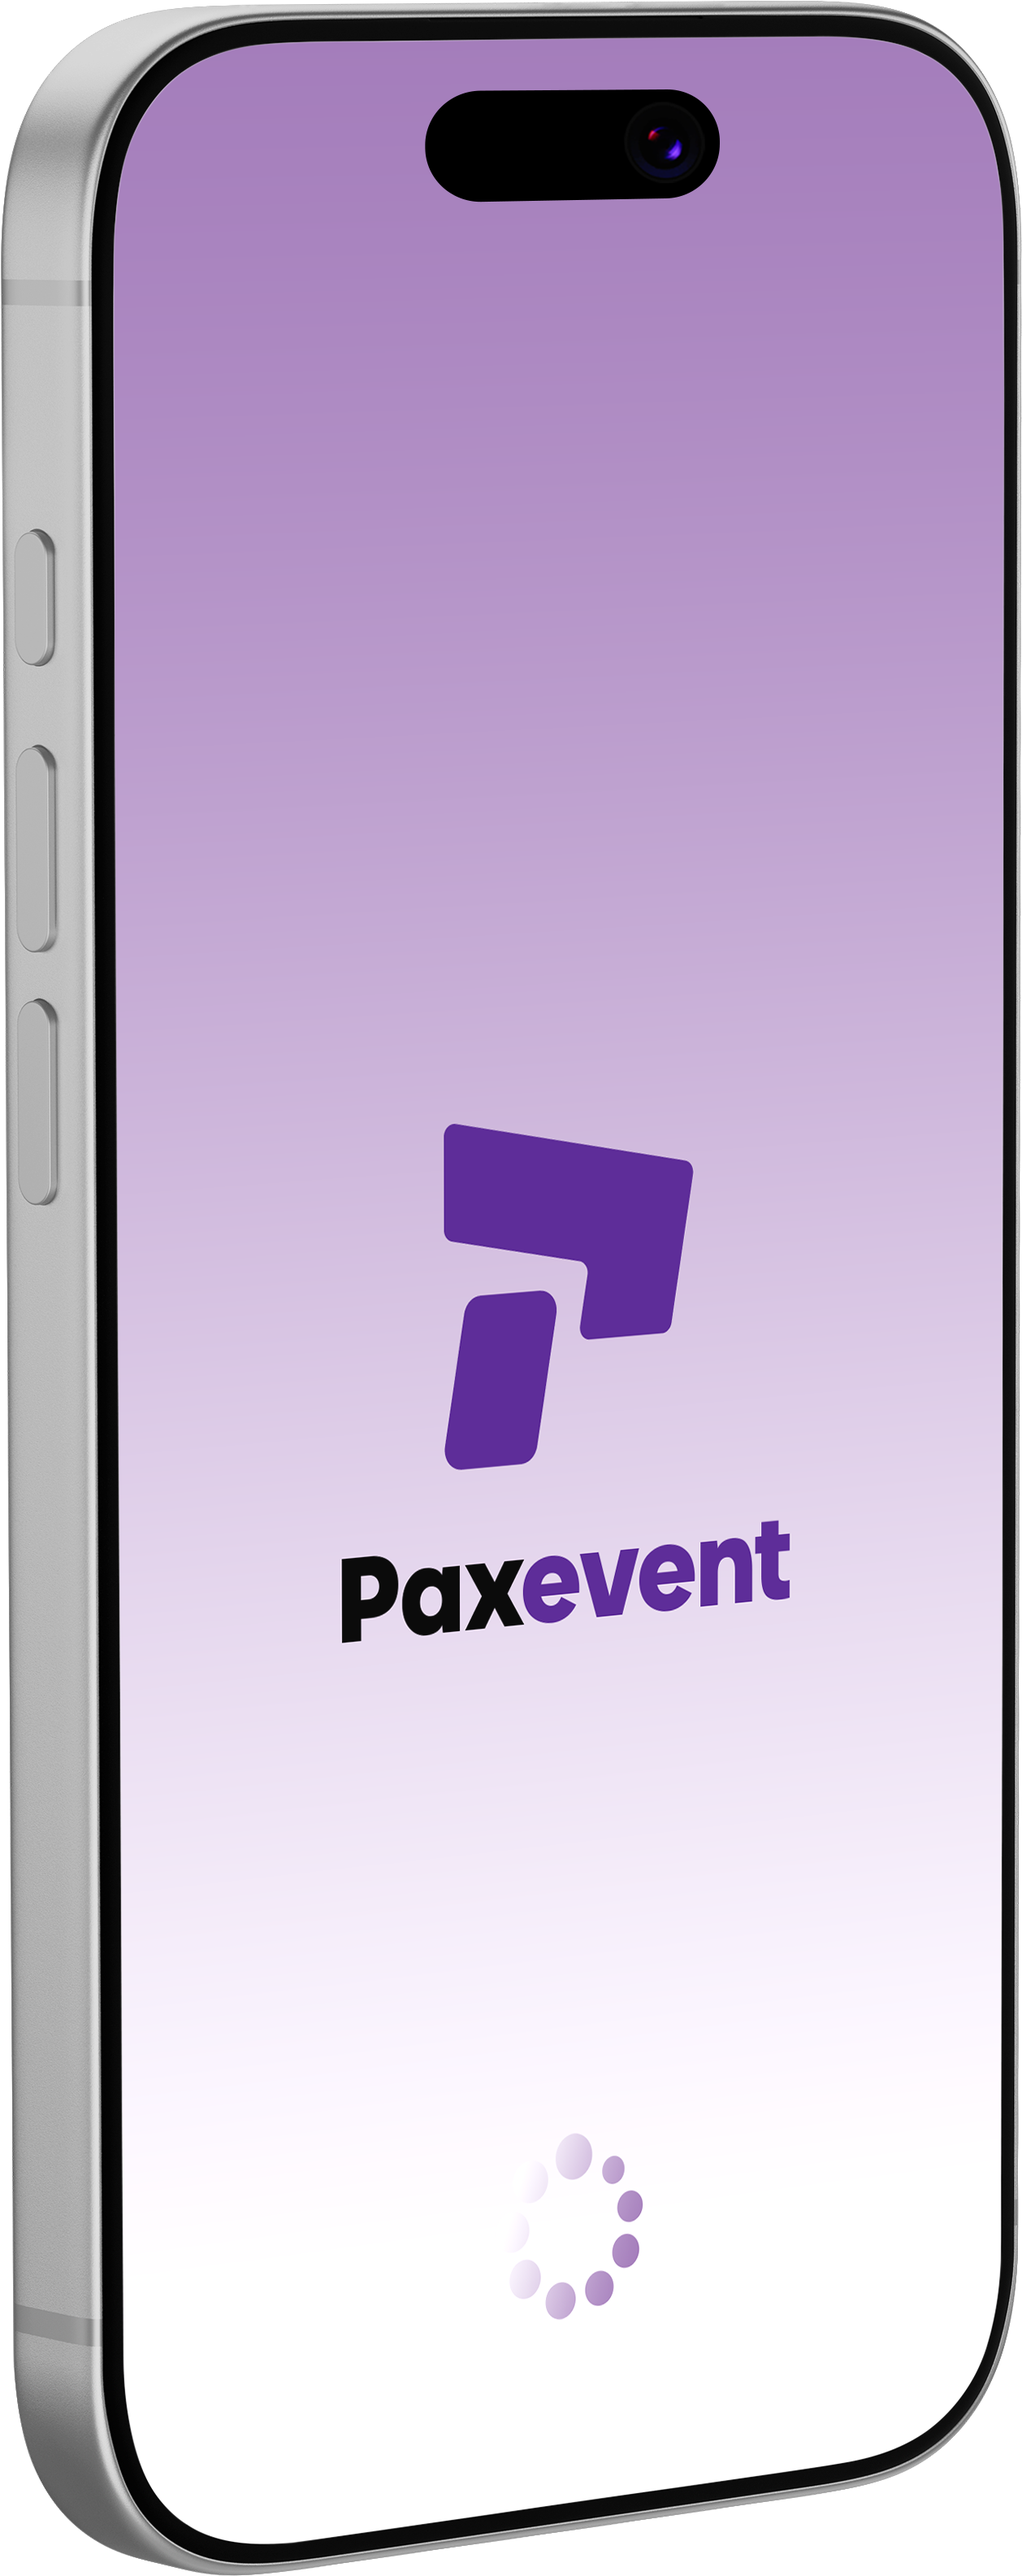
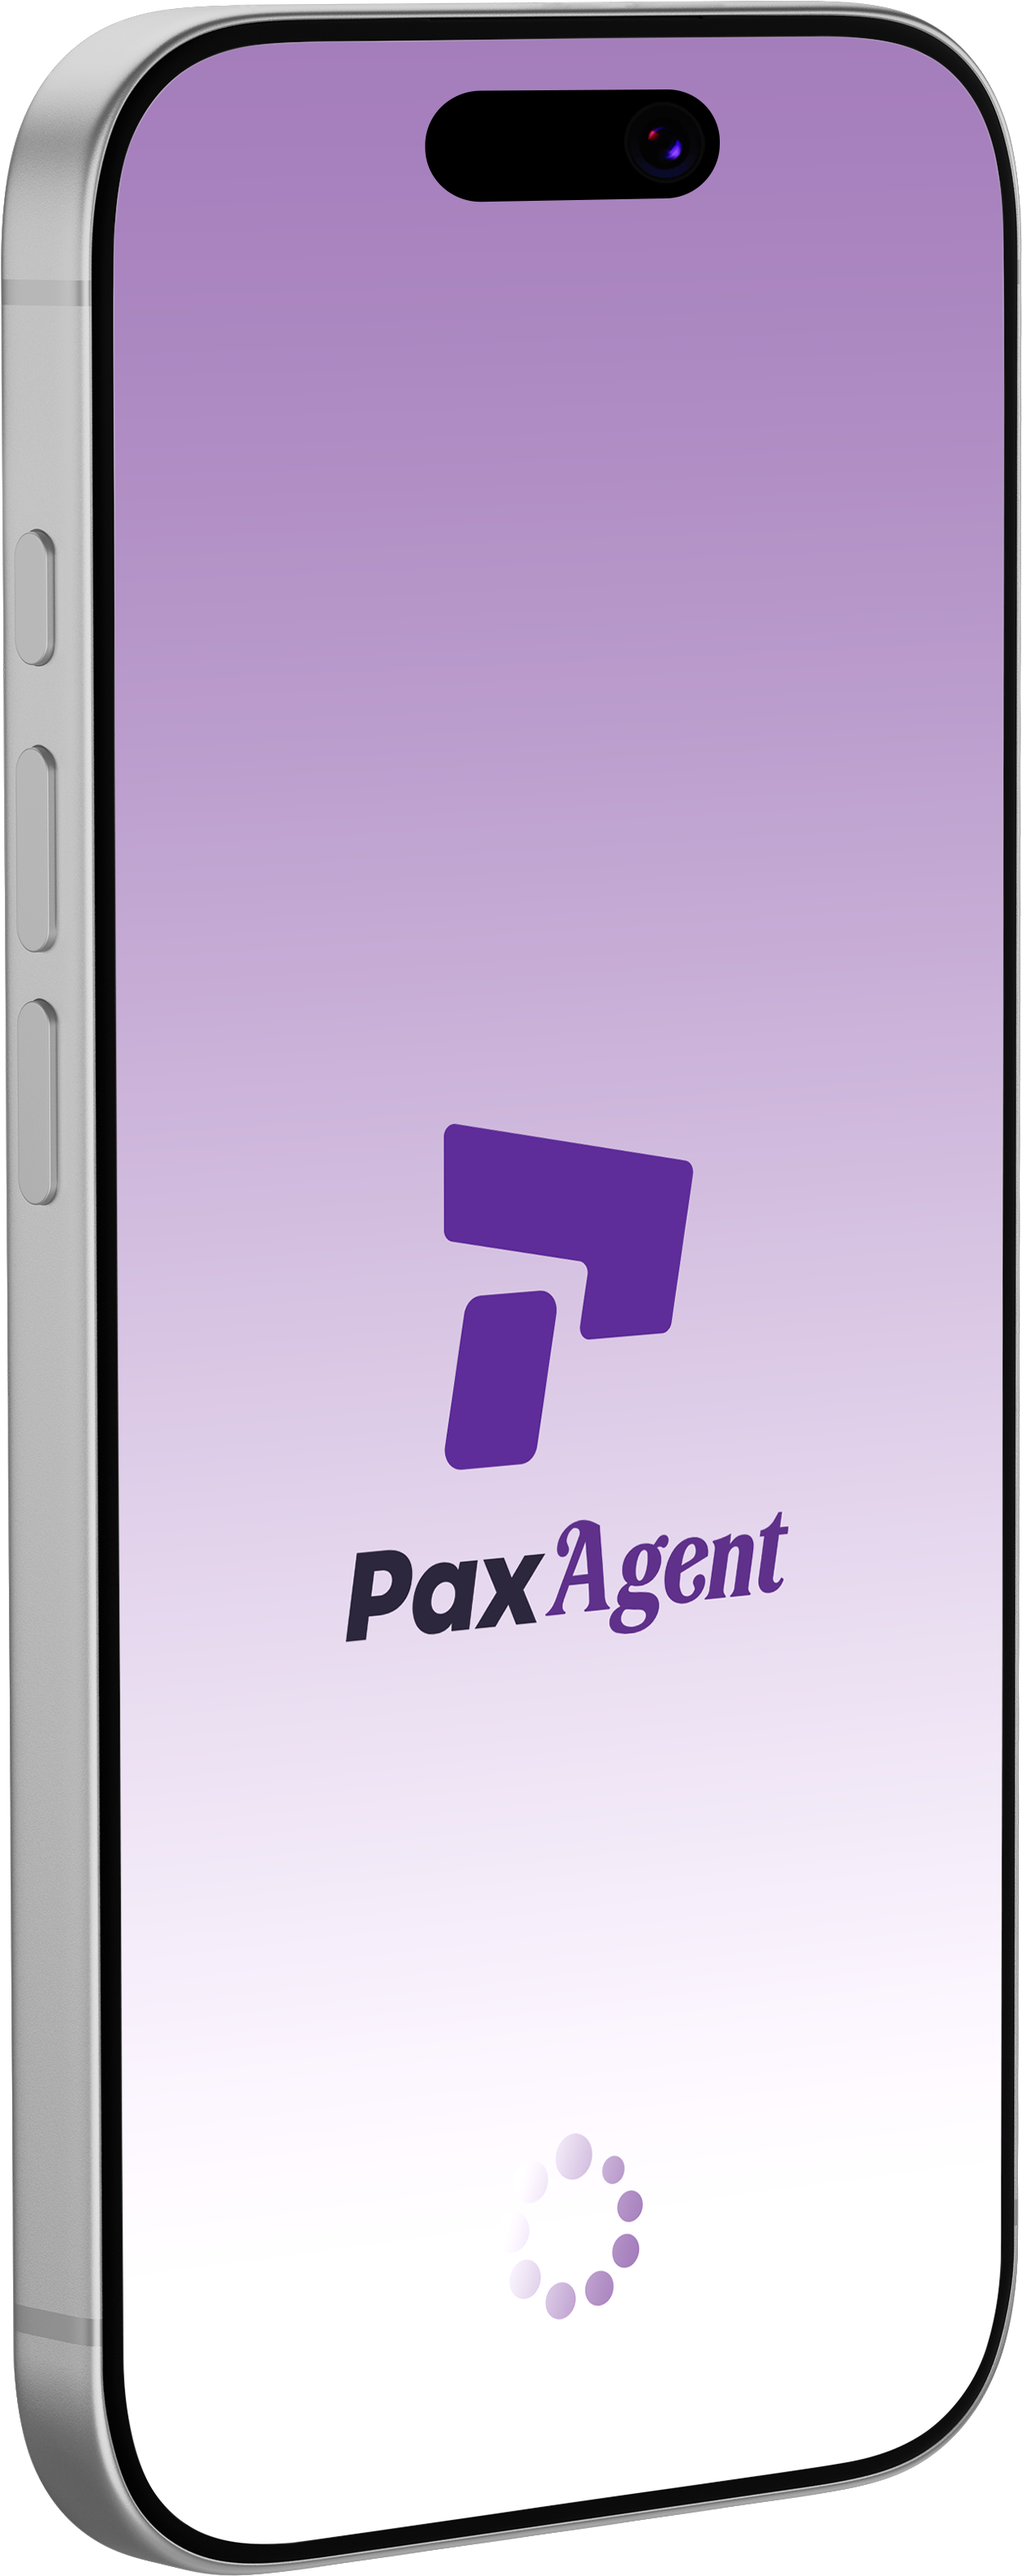
feat(public): barre d'achat mobile visible dès l'ouverture + nouvel écran PaxAgent
- Détail événement (mobile) : barre « À partir de » + bouton selon le type d'événement
  (Acheter, S'inscrire…), qui mène aux tarifs ; reprend le panier dès qu'un billet est choisi
- Section PaxAgent : nouvelle image du second écran (WebP régénéré), images inutilisées retirées

Changed region(s): [[0.31, 0.5938, 0.775, 0.6562]]

diff --git a/resources/views/evenement-public/show.blade.php b/resources/views/evenement-public/show.blade.php
@@ -303,7 +303,8 @@
                         </form>
 
                         {{-- Barre du panier, fixée en bas de l'écran sur téléphone --}}
-                        <div class="achat-barre" id="barrePanier">
+                        <div class="achat-barre" id="barrePanier"
+                             data-libelle-depart="{{ $evenement->gratuit ? $evenement->getTextes()['participer_gratuit'] : $evenement->getTextes()['acheter'] }}">
                             <div>
                                 <div class="achat-barre-n" data-nombre>Aucun billet choisi</div>
                                 <div class="achat-barre-t" data-total>0 FCFA</div>
@@ -526,6 +527,7 @@
 }
 .achat-barre-n{font-size:.75rem;color:#6b6474}
 .achat-barre-t{font-size:1.1rem;font-weight:800;color:#211C31}
+.achat-barre.est-vide #btnContinuerBarre{flex:1;max-width:60%;justify-content:center;padding:.75rem 1rem;font-size:1rem}
 </style>
 </div>
 
@@ -1275,11 +1277,17 @@ document.addEventListener('DOMContentLoaded', function () {
         document.querySelectorAll('[data-nombre]').forEach((el) => { el.textContent = texteNombre; });
         document.querySelectorAll('[data-total]').forEach((el) => { el.textContent = nombre === 0 ? '0 FCFA' : fmt(total); });
 
+        // Barre mobile : avant tout choix, elle affiche le prix de départ et invite à prendre un billet
+        if (nombre === 0) {
+            barre.querySelector('[data-nombre]').textContent = 'À partir de';
+            barre.querySelector('[data-total]').textContent = prixDepart > 0 ? fmt(prixDepart) : 'Gratuit';
+        }
+
         libelle.textContent = nombre > 0 && total <= 0 ? 'Réserver gratuitement' : 'Payer avec FedaPay';
 
-        const visible = nombre > 0;
-        barre.classList.toggle('is-visible', visible);
-        document.body.classList.toggle('achat-barre-ouverte', visible);
+        barre.classList.add('is-visible');
+        document.body.classList.add('achat-barre-ouverte');
+        barre.classList.toggle('est-vide', nombre === 0);
         majBoutonBarre();
     }
 
@@ -1293,7 +1301,16 @@ document.addEventListener('DOMContentLoaded', function () {
         .filter((c) => !c.disabled && c.type !== 'hidden');
     const premierChampManquant = () => champsRequis().find((c) => !c.checkValidity());
 
+    // Prix le plus bas parmi les tarifs encore disponibles
+    const disponibles = lignes.filter((l) => parseInt(l.dataset.max, 10) > 0);
+    const prixDepart = Math.min(...(disponibles.length ? disponibles : lignes).map((l) => parseFloat(l.dataset.prix) || 0));
+
     function majBoutonBarre() {
+        if (barre.classList.contains('est-vide')) {
+            libelleBarre.textContent = barre.dataset.libelleDepart || 'Acheter';
+            iconeBarre.className = 'bi bi-ticket-perforated ms-1';
+            return;
+        }
         const pret = !premierChampManquant();
         libelleBarre.textContent = pret ? libelle.textContent : 'Continuer';
         iconeBarre.className = pret ? 'bi bi-arrow-right ms-1' : 'bi bi-arrow-down ms-1';
@@ -1311,6 +1328,11 @@ document.addEventListener('DOMContentLoaded', function () {
     });
 
     btnBarre.addEventListener('click', function () {
+        // Aucun billet choisi : on descend jusqu'aux tarifs
+        if (barre.classList.contains('est-vide')) {
+            (disponibles[0] || lignes[0] || form).scrollIntoView({ behavior: 'smooth', block: 'center' });
+            return;
+        }
         const manquant = premierChampManquant();
         if (manquant) {
             manquant.scrollIntoView({ behavior: 'smooth', block: 'center' });

diff --git a/resources/views/site/accueil.blade.php b/resources/views/site/accueil.blade.php
@@ -831,7 +831,7 @@
             <div class="app-visuel app-reveal">
                 <div class="app-scene" role="img" aria-label="Deux écrans de l'application mobile PaxAgent">
                     <img class="app-cercle" src="{{ asset('images/paxagent-cercle.webp') }}" alt="" width="900" height="900" loading="lazy">
-                    <img class="app-tel app-tel-arriere" src="{{ asset('images/paxagent-interface2.webp') }}" alt="" width="520" height="1309" loading="lazy">
+                    <img class="app-tel app-tel-arriere" src="{{ asset('images/paxagent-interface2.webp') }}" alt="" width="520" height="1310" loading="lazy">
                     <img class="app-tel app-tel-avant" src="{{ asset('images/paxagent-interface1.webp') }}" alt="" width="520" height="1198" loading="lazy">
                 </div>
             </div>
